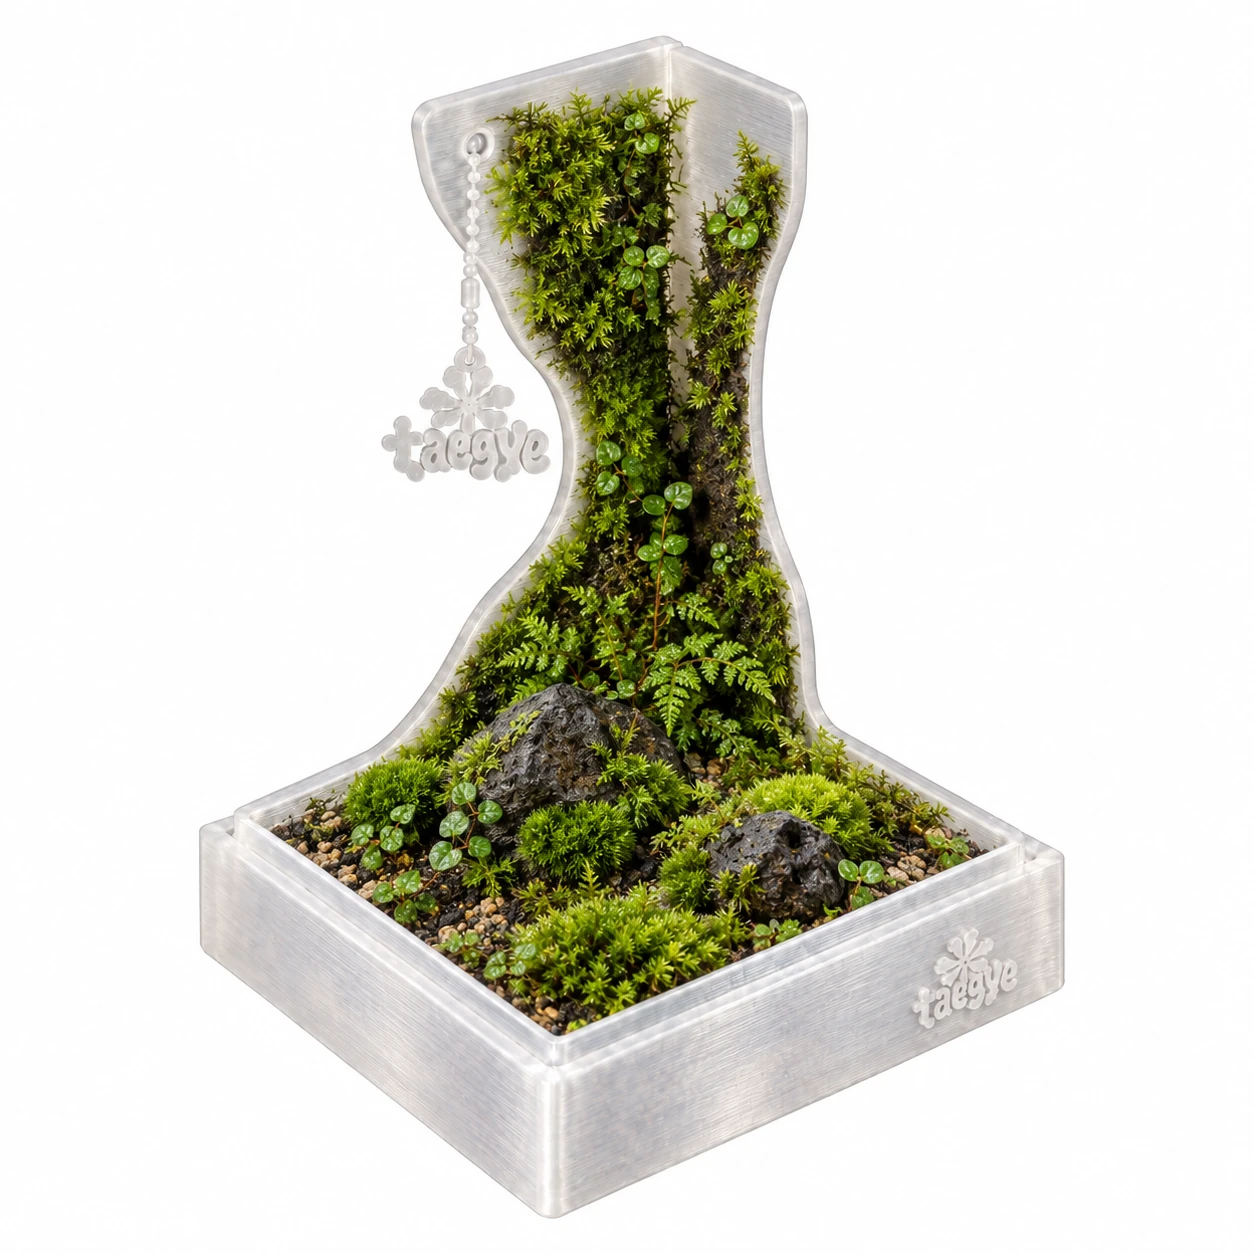
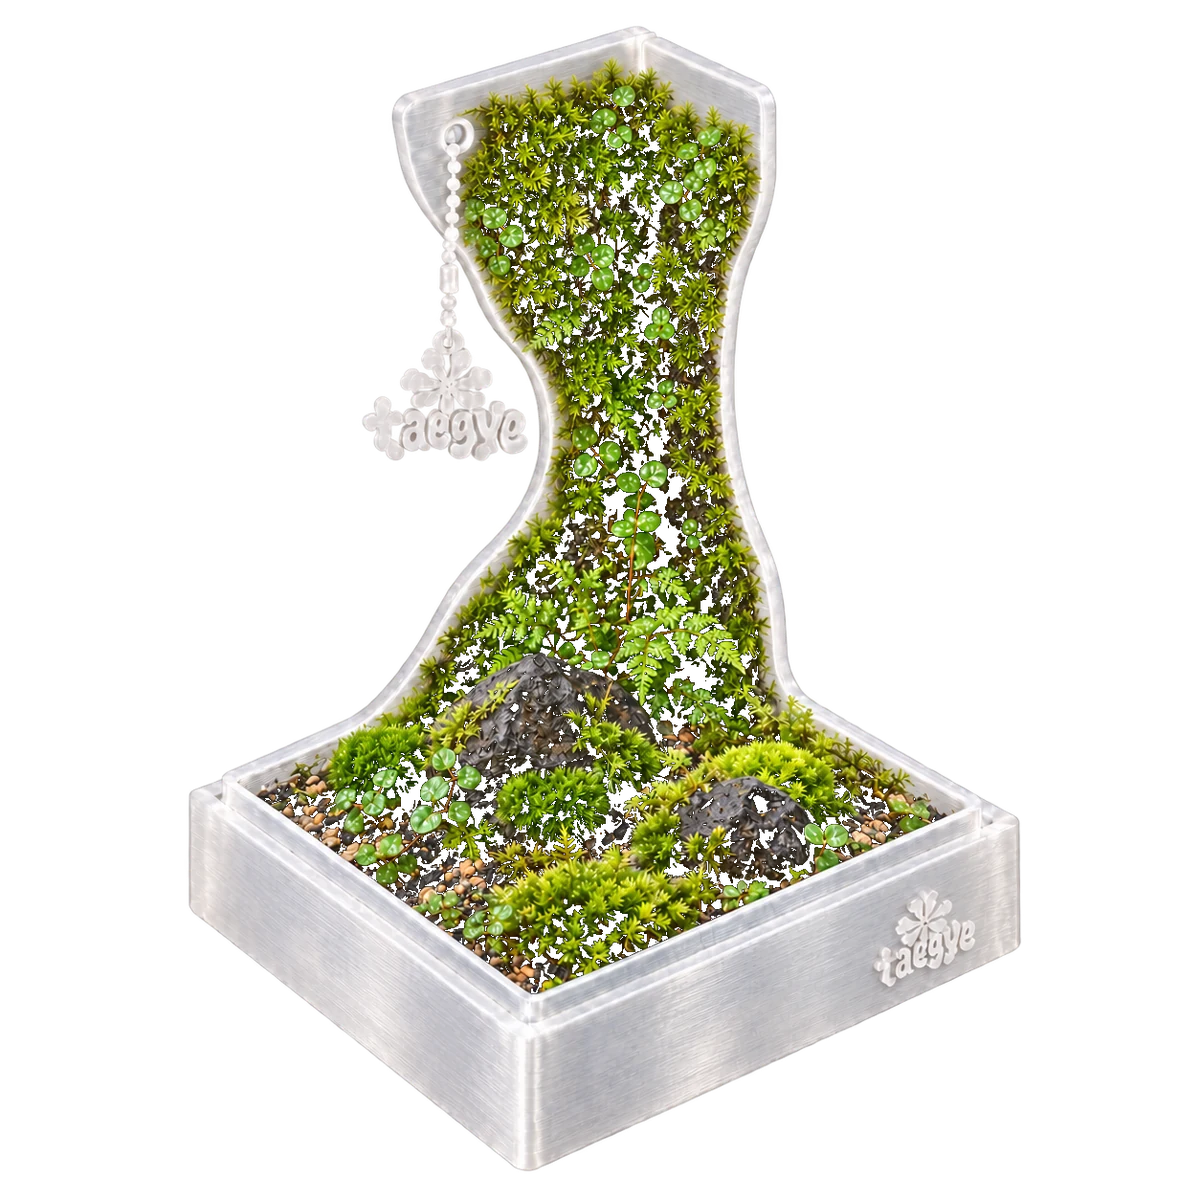
Add punched product shots and /new/[color] detail pages
Replace catalog WebPs with the transparent stand plates, link each
card to a quiet Amomento-style PDP, and keep hover moss on the image.

diff --git a/src/app/new/[id]/page.tsx b/src/app/new/[id]/page.tsx
@@ -1,0 +1,98 @@
+import type { Metadata } from "next";
+import Image from "next/image";
+import Link from "next/link";
+import { notFound } from "next/navigation";
+
+import { forceWhiteStyle } from "@/lib/force-white";
+import { NEW_PRODUCTS, STAND_NOTE, STORE_URL, getNewProduct } from "@/lib/site";
+
+type ProductPageProps = {
+  params: Promise<{ id: string }>;
+};
+
+export function generateStaticParams() {
+  return NEW_PRODUCTS.map((product) => ({ id: product.id }));
+}
+
+export async function generateMetadata({ params }: ProductPageProps): Promise<Metadata> {
+  const { id } = await params;
+  const product = getNewProduct(id);
+  if (!product) return { title: "new" };
+  return { title: product.name };
+}
+
+export default async function ProductPage({ params }: ProductPageProps) {
+  const { id } = await params;
+  const product = getNewProduct(id);
+  if (!product) notFound();
+
+  return (
+    <article className="site-page site-gutter pt-8 pb-24 sm:pt-20 sm:pb-32" style={forceWhiteStyle}>
+      <Link
+        href="/new"
+        className="text-[11px] font-normal lowercase tracking-[0.14em] no-underline hover:no-underline"
+        style={{ color: "#999999" }}
+      >
+        new
+      </Link>
+
+      <div className="mt-10 grid items-start gap-12 md:mt-16 md:grid-cols-2 md:gap-16 lg:gap-24">
+        <div className="product-card" style={forceWhiteStyle}>
+          <div className="relative aspect-square overflow-hidden" style={forceWhiteStyle}>
+            <div className="product-empty absolute inset-0">
+              <Image
+                src={product.emptySrc}
+                alt={product.emptyAlt}
+                fill
+                priority
+                sizes="(min-width: 768px) 46vw, 92vw"
+                className="object-contain object-center"
+              />
+            </div>
+            <div className="product-moss absolute inset-0">
+              <Image
+                src={product.mossSrc}
+                alt={product.mossAlt}
+                fill
+                sizes="(min-width: 768px) 46vw, 92vw"
+                className="object-contain object-center"
+              />
+            </div>
+          </div>
+        </div>
+
+        <div className="max-w-sm md:pt-4">
+          <h1 className="text-[13px] font-normal tracking-[0.04em]" style={{ color: "#111111" }}>
+            {product.name}
+          </h1>
+          <p className="mt-2 text-[13px] tracking-[0.04em]" style={{ color: "#111111" }}>
+            {product.price}
+          </p>
+
+          <div className="mt-10 space-y-6">
+            <section lang="en" className="space-y-2 text-[13px] leading-[1.9] tracking-[0.02em]">
+              {STAND_NOTE.en.map((line) => (
+                <p key={line}>{line}</p>
+              ))}
+            </section>
+            <section lang="ko" className="space-y-2 text-[13px] leading-[2] tracking-[0.04em]">
+              {STAND_NOTE.kr.map((line) => (
+                <p key={line}>{line}</p>
+              ))}
+            </section>
+          </div>
+
+          <a
+            href={STORE_URL}
+            target="_blank"
+            rel="noopener noreferrer"
+            className="mt-12 inline-block text-[11px] lowercase tracking-[0.14em] no-underline hover:no-underline"
+            style={{ color: "#111111" }}
+          >
+            store
+          </a>
+        </div>
+      </div>
+    </article>
+  );
+}

diff --git a/src/components/product-card.tsx b/src/components/product-card.tsx
@@ -1,7 +1,7 @@
 "use client";
 
 import Image from "next/image";
-import { useState } from "react";
+import Link from "next/link";
 
 import { forceWhiteStyle } from "@/lib/force-white";
 import type { NewProduct } from "@/lib/site";
@@ -12,20 +12,11 @@ type ProductCardProps = {
 };
 
 export function ProductCard({ product, priority = false }: ProductCardProps) {
-  const [moss, setMoss] = useState(false);
-
   return (
-    <article
-      className="product-card cursor-pointer"
+    <Link
+      href={`/new/${product.id}`}
+      className="product-card block no-underline hover:no-underline"
       style={forceWhiteStyle}
-      data-moss={moss ? "on" : "off"}
-      onMouseEnter={() => setMoss(true)}
-      onMouseLeave={() => setMoss(false)}
-      onClick={() => {
-        if (!window.matchMedia("(hover: hover)").matches) {
-          setMoss((value) => !value);
-        }
-      }}
     >
       <div className="relative aspect-square overflow-hidden" style={forceWhiteStyle}>
         <div className="product-empty absolute inset-0">
@@ -58,6 +49,6 @@ export function ProductCard({ product, priority = false }: ProductCardProps) {
           {product.price}
         </p>
       </div>
-    </article>
+    </Link>
   );
 }

diff --git a/src/lib/site.ts b/src/lib/site.ts
@@ -101,6 +101,17 @@ export type NewProduct = {
 
 export const STAND_PRICE = "KRW 108,000";
 
+export const STAND_NOTE = {
+  en: [
+    "A modular vessel for a moss object.",
+    "Keep in indirect light. Water sparingly.",
+  ],
+  kr: [
+    "이끼를 담는 모듈러 스탠드.",
+    "직사광선을 피하고, 물은 적게 주세요.",
+  ],
+} as const;
+
 /** /new catalog — silver, purple, black, green, white. */
 export const NEW_PRODUCTS: NewProduct[] = [
   {
@@ -149,6 +160,10 @@ export const NEW_PRODUCTS: NewProduct[] = [
     mossAlt: "TAEGYE modular stand in white with moss",
   },
 ];
+
+export function getNewProduct(id: string) {
+  return NEW_PRODUCTS.find((product) => product.id === id);
+}
 
 export const FAQ_ITEMS = [
   {
